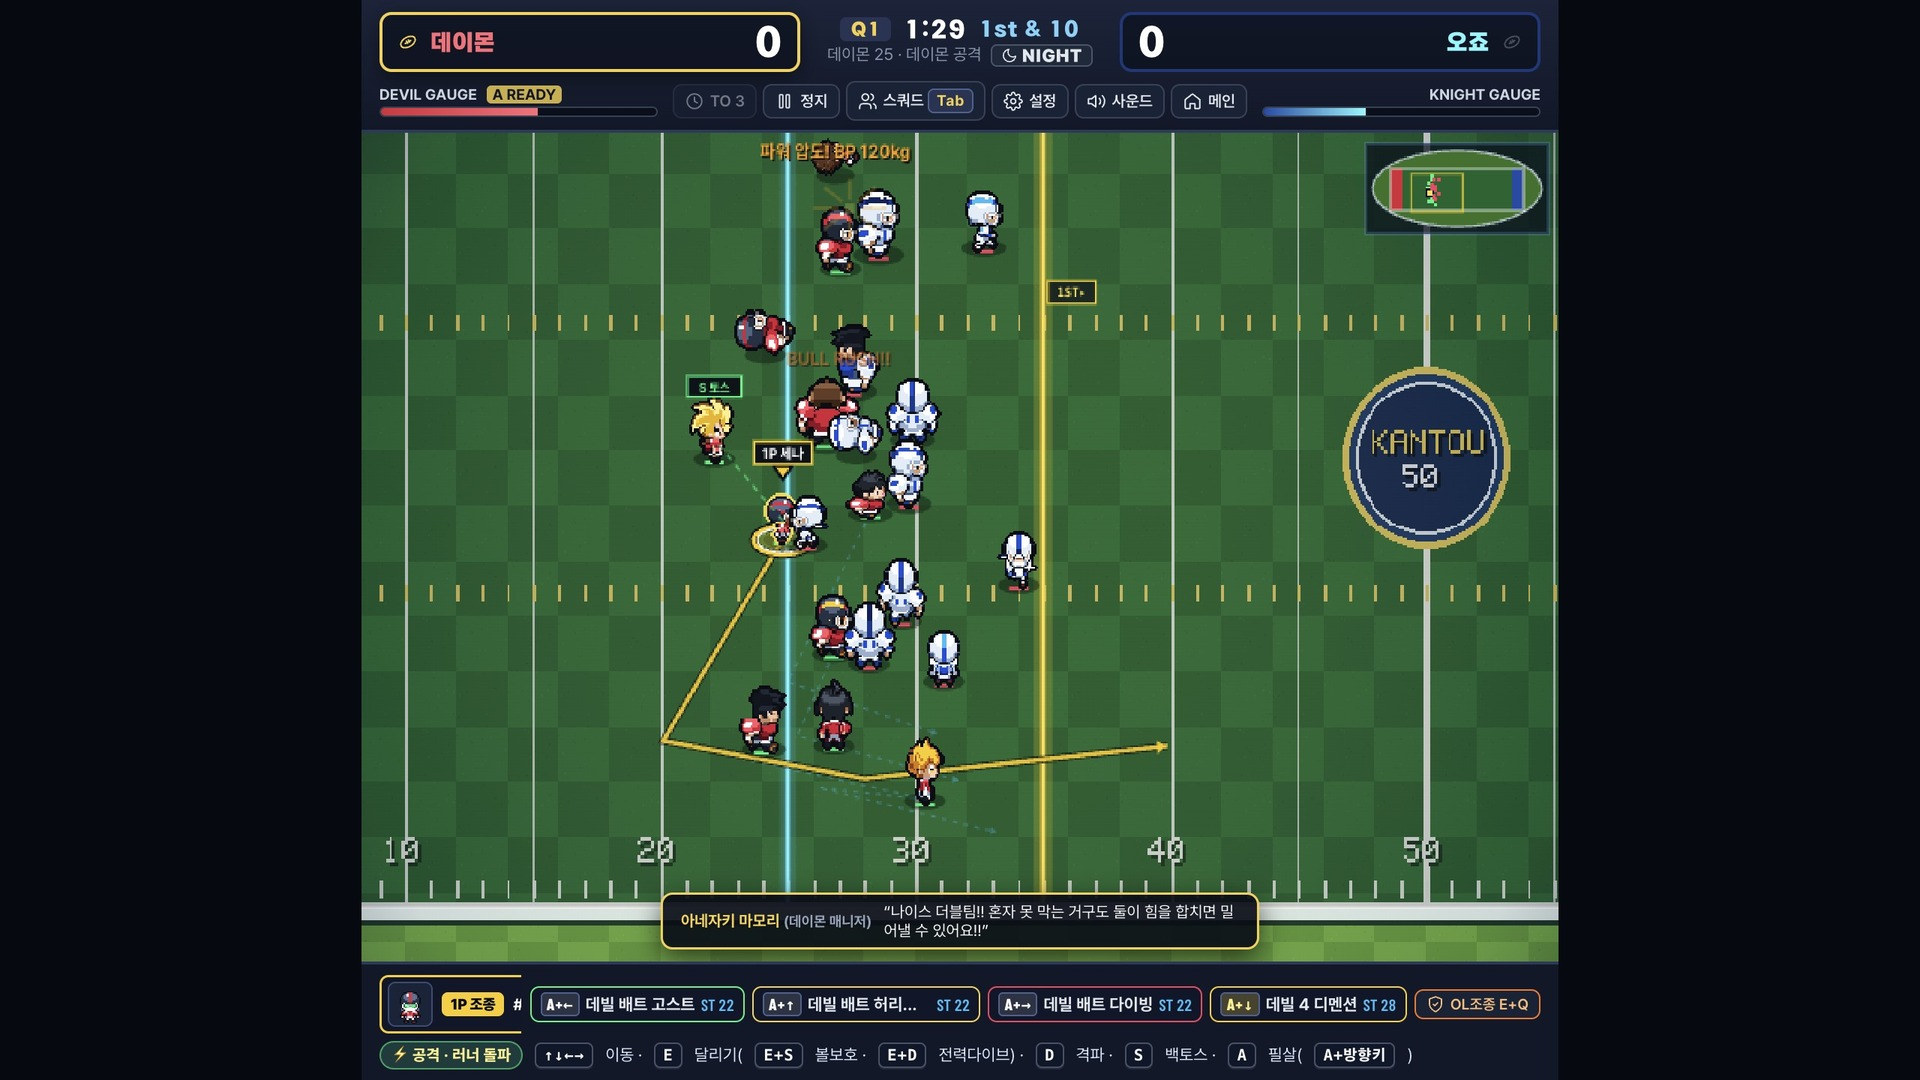
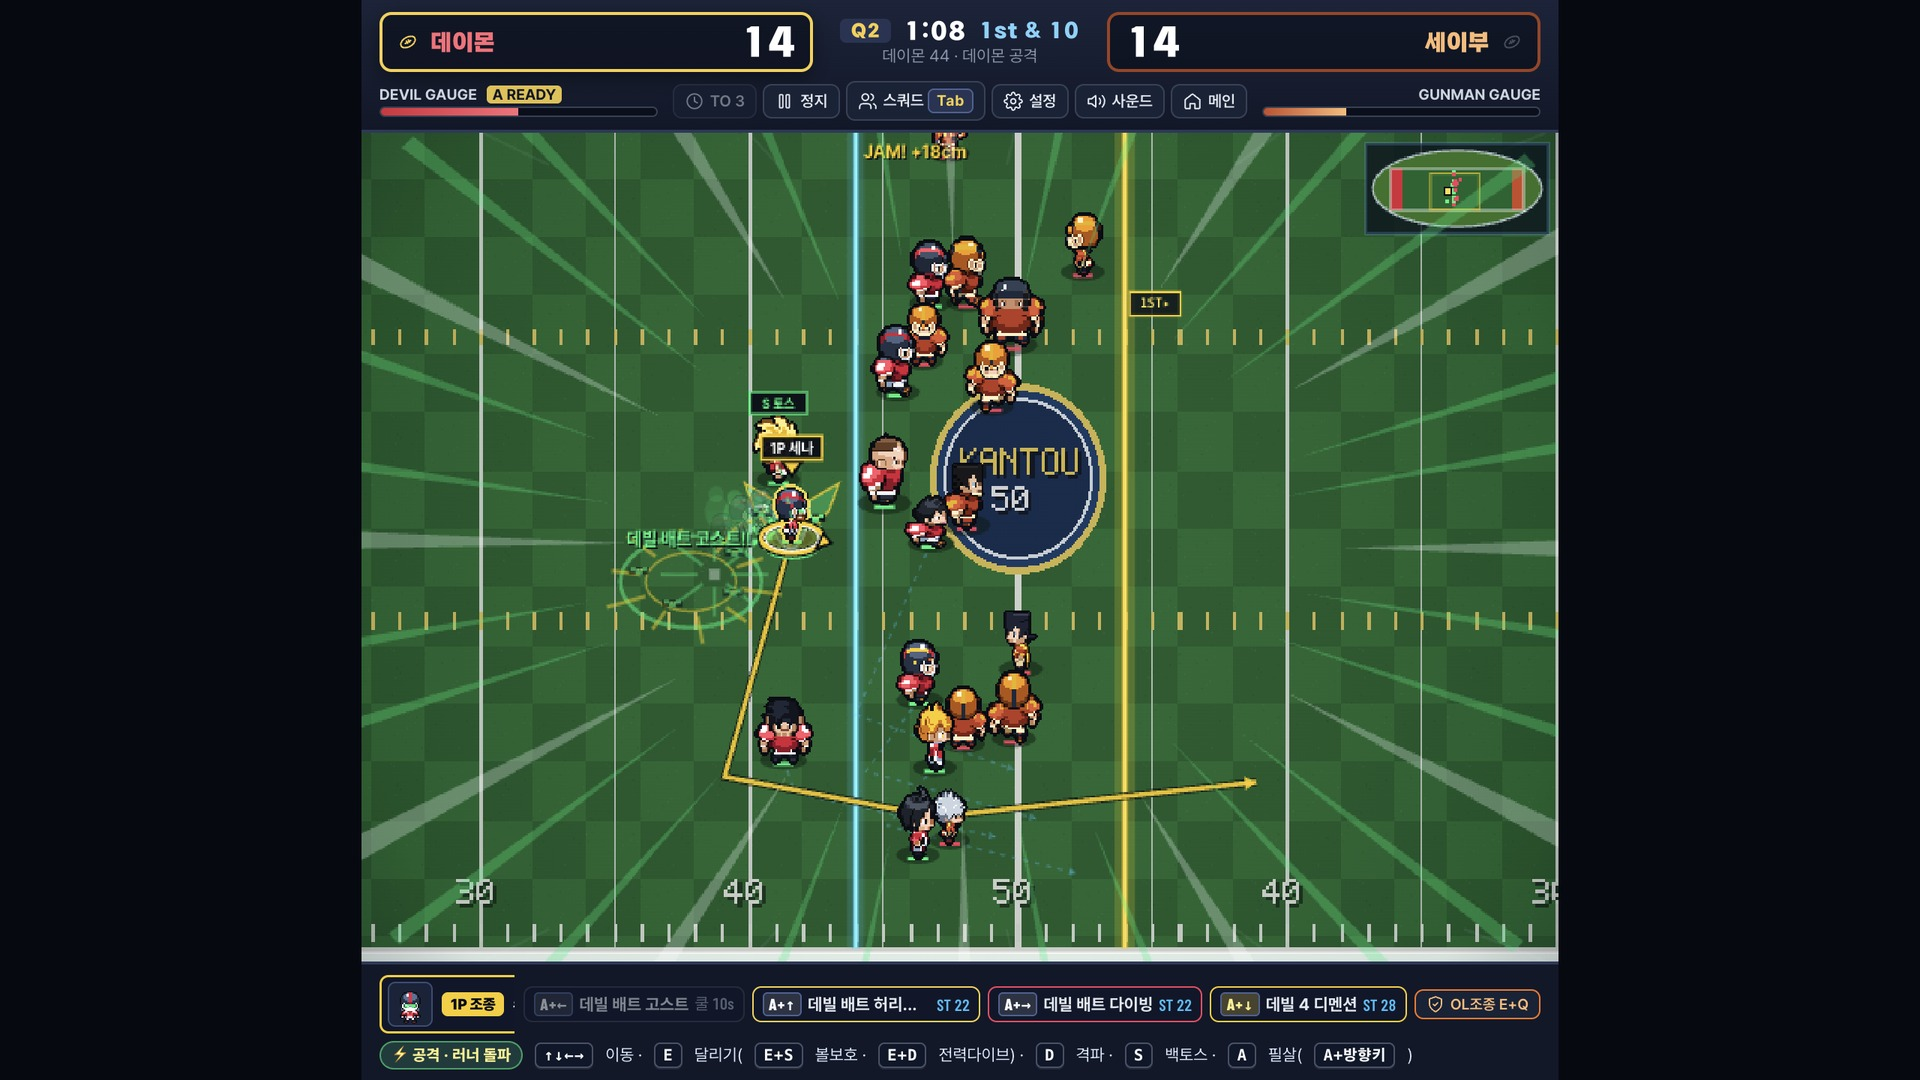
chore(media): refresh all 6 in-game preview screenshots for v0.3.19

diff --git a/src/data/portalData.ts b/src/data/portalData.ts
@@ -233,37 +233,37 @@ export const PORTAL_PREVIEWS: PortalPreviewShot[] = [
   {
     id: 'cutin-d4d',
     title: '성야의 오의 · 데빌 4 디멘션',
-    caption: '원작 정발판 표기 그대로 구현된 세나의 백스텝 가속 오의와 도트+원작 컷인 연출',
+    caption: '원작 정발판 표기 그대로 구현된 세나의 백스텝 가속 오의와 만화 집중선·번개 레일 사쿠가 컷인 연출',
     image: './media/shot_cutin_d4d.jpg',
   },
   {
     id: 'cutin-ghost',
     title: '광속 돌파 · 데빌 배트 고스트',
-    caption: '0.1초 타이밍을 가르는 잔상 돌파와 112종 원작 필살기 한글 컷인 시스템',
+    caption: '0.1초 타이밍을 가르는 잔상 돌파와 112종 원작 필살기 사쿠가 한글 컷인 시스템',
     image: './media/shot_cutin_ghost.jpg',
   },
   {
     id: 'gameplay-11v11',
-    title: '11 vs 11 실시간 전술 필드',
-    caption: '초직관 5키(Q 캐릭터변경 · A+방향키 필살기 · E 달리기조합 · S 패스 · D 돌파/태클)와 HD-2D 고시인성 카메라의 즉각적인 손맛',
+    title: '11 vs 11 실시간 광속 전술 필드',
+    caption: '4중 속도 잔상 · V-웨이크 충격파 · 외곽 집중선 이펙트와 초직관 5키(Q·E·A·S·D) 실시간 필드',
     image: './media/shot_gameplay.jpg',
   },
   {
     id: 'snowy-td',
     title: '크리스마스 볼 · 기적의 터치다운',
-    caption: '눈 내리는 경기장 위에서 터지는 역전 러싱과 60야드 매그넘 킥 연출',
+    caption: '눈 내리는 결승 구장 위에서 9곡 BGM·애니 OST 쥬크박스와 함께 터지는 역전 터치다운 연출',
     image: './media/shot_td.jpg',
   },
   {
     id: 'canon-story',
-    title: '원작 고증 스토리 15챕터 (★45)',
-    caption: '코이가하마·조쿠토·태양·아미노·쿄신·반도·와세다 EX까지 정발 고증 15챕터와 챕터별 ★3 챌린지 수록',
-    image: './media/hero_story_pixel.png',
+    title: '전면 개편 만화 스토리 15챕터 (★45)',
+    caption: '정발 1~37권 고증 한국어 만화 대본 · 네모칸 리터칭 초상화 49종 · 히루마 실전 코칭 브리핑',
+    image: './media/shot_story.jpg',
   },
   {
     id: 'key-visual',
-    title: '데이몬 데빌 배츠 키비주얼',
-    caption: '원작 감성을 픽셀 스타일로 다듬은 메인 타이틀 화면과 팀 로스터 포털',
+    title: '데이몬 데빌 배츠 키비주얼 (v0.3.19)',
+    caption: '원작 감성을 픽셀 스타일로 다듬은 v0.3.19 메인 타이틀 화면과 5대 게임 모드 포털',
     image: './media/shot_start.jpg',
   },
 ];
